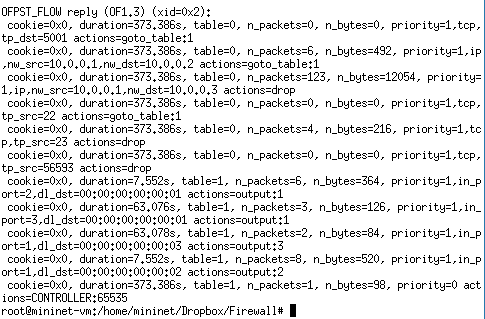
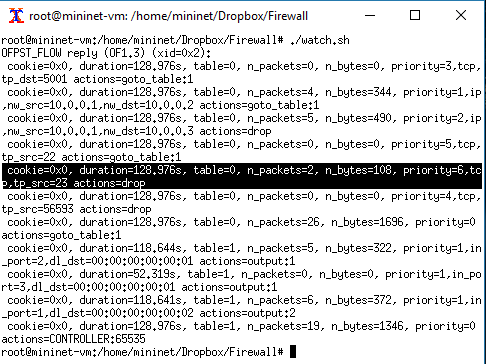
Figuras atualizadas

diff --git a/switch.py b/switch.py
@@ -54,8 +54,7 @@ class SimpleSwitch13(app_manager.RyuApp):
         datapath.send_msg(msg)
 
         # Adicionar regras do Firewall
-        priority = 1
-        for rule in self.firewall.rules:
+        for priority, rule in enumerate(self.firewall.rules):
             # Determina ação do Firewall
             if rule['type'] == 'permit':
                 inst = [parser.OFPInstructionGotoTable(self.RULES_TABLE)]
@@ -64,11 +63,10 @@ class SimpleSwitch13(app_manager.RyuApp):
                     ofproto.OFPIT_APPLY_ACTIONS, [])]
 
             match = self.retrieve_matcher(rule, parser)
-            msg = parser.OFPFlowMod(datapath=datapath, priority=priority,
+            msg = parser.OFPFlowMod(datapath=datapath, priority=(priority + 1),
                                     match=match, instructions=inst,
                                     table_id=self.FIREWALL_TABLE)
             datapath.send_msg(msg)
-            priority += 1
 
     def retrieve_matcher(self, rule, parser):
         u"""Retorna o matcher adequado."""

diff --git a/firewall.py b/firewall.py
@@ -32,5 +32,3 @@ class Firewall:
                 self.rules.append(
                     self.create_rule(line.split()))
         print self.rules
-
-Firewall()
